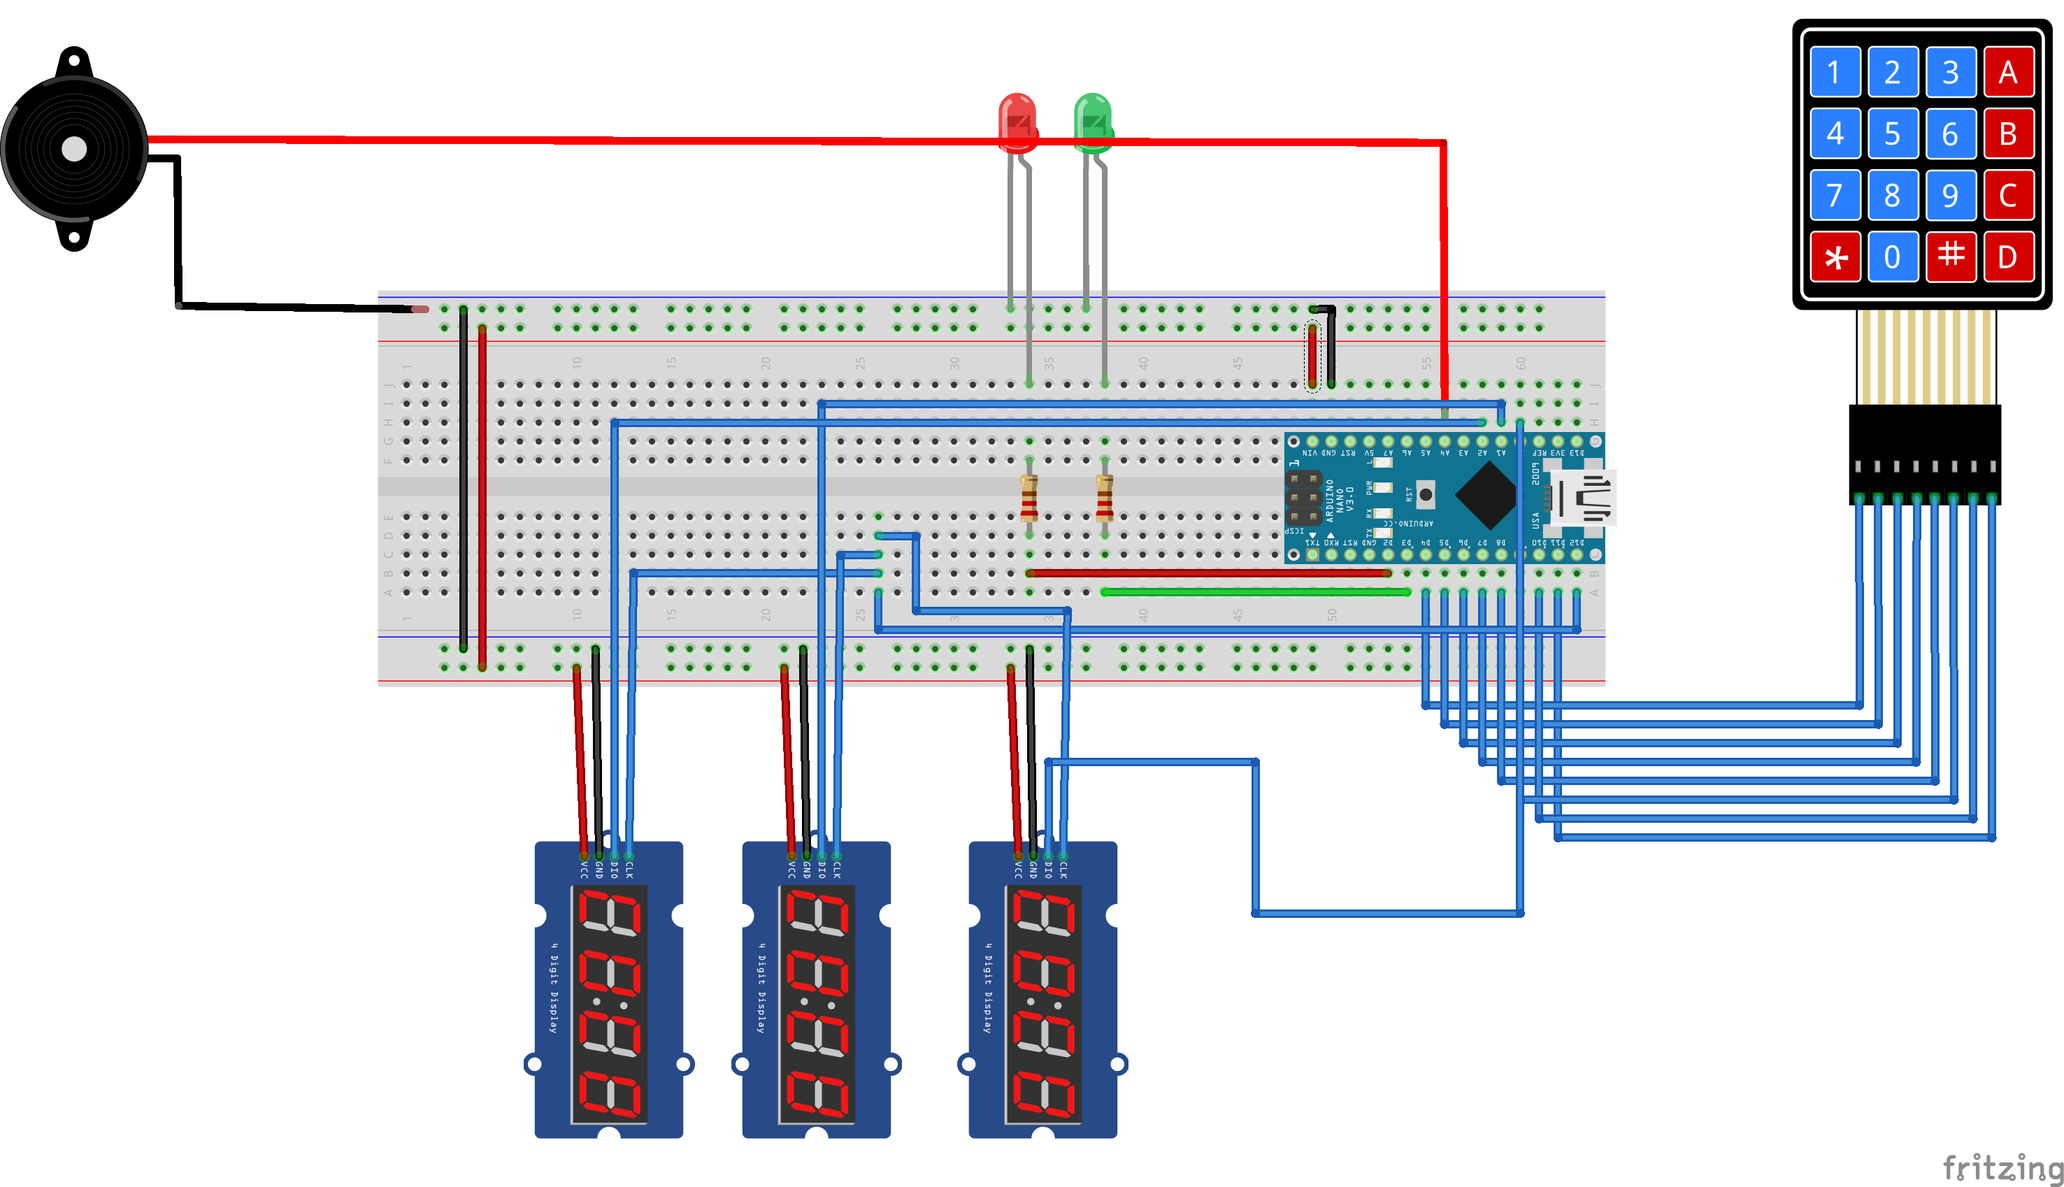
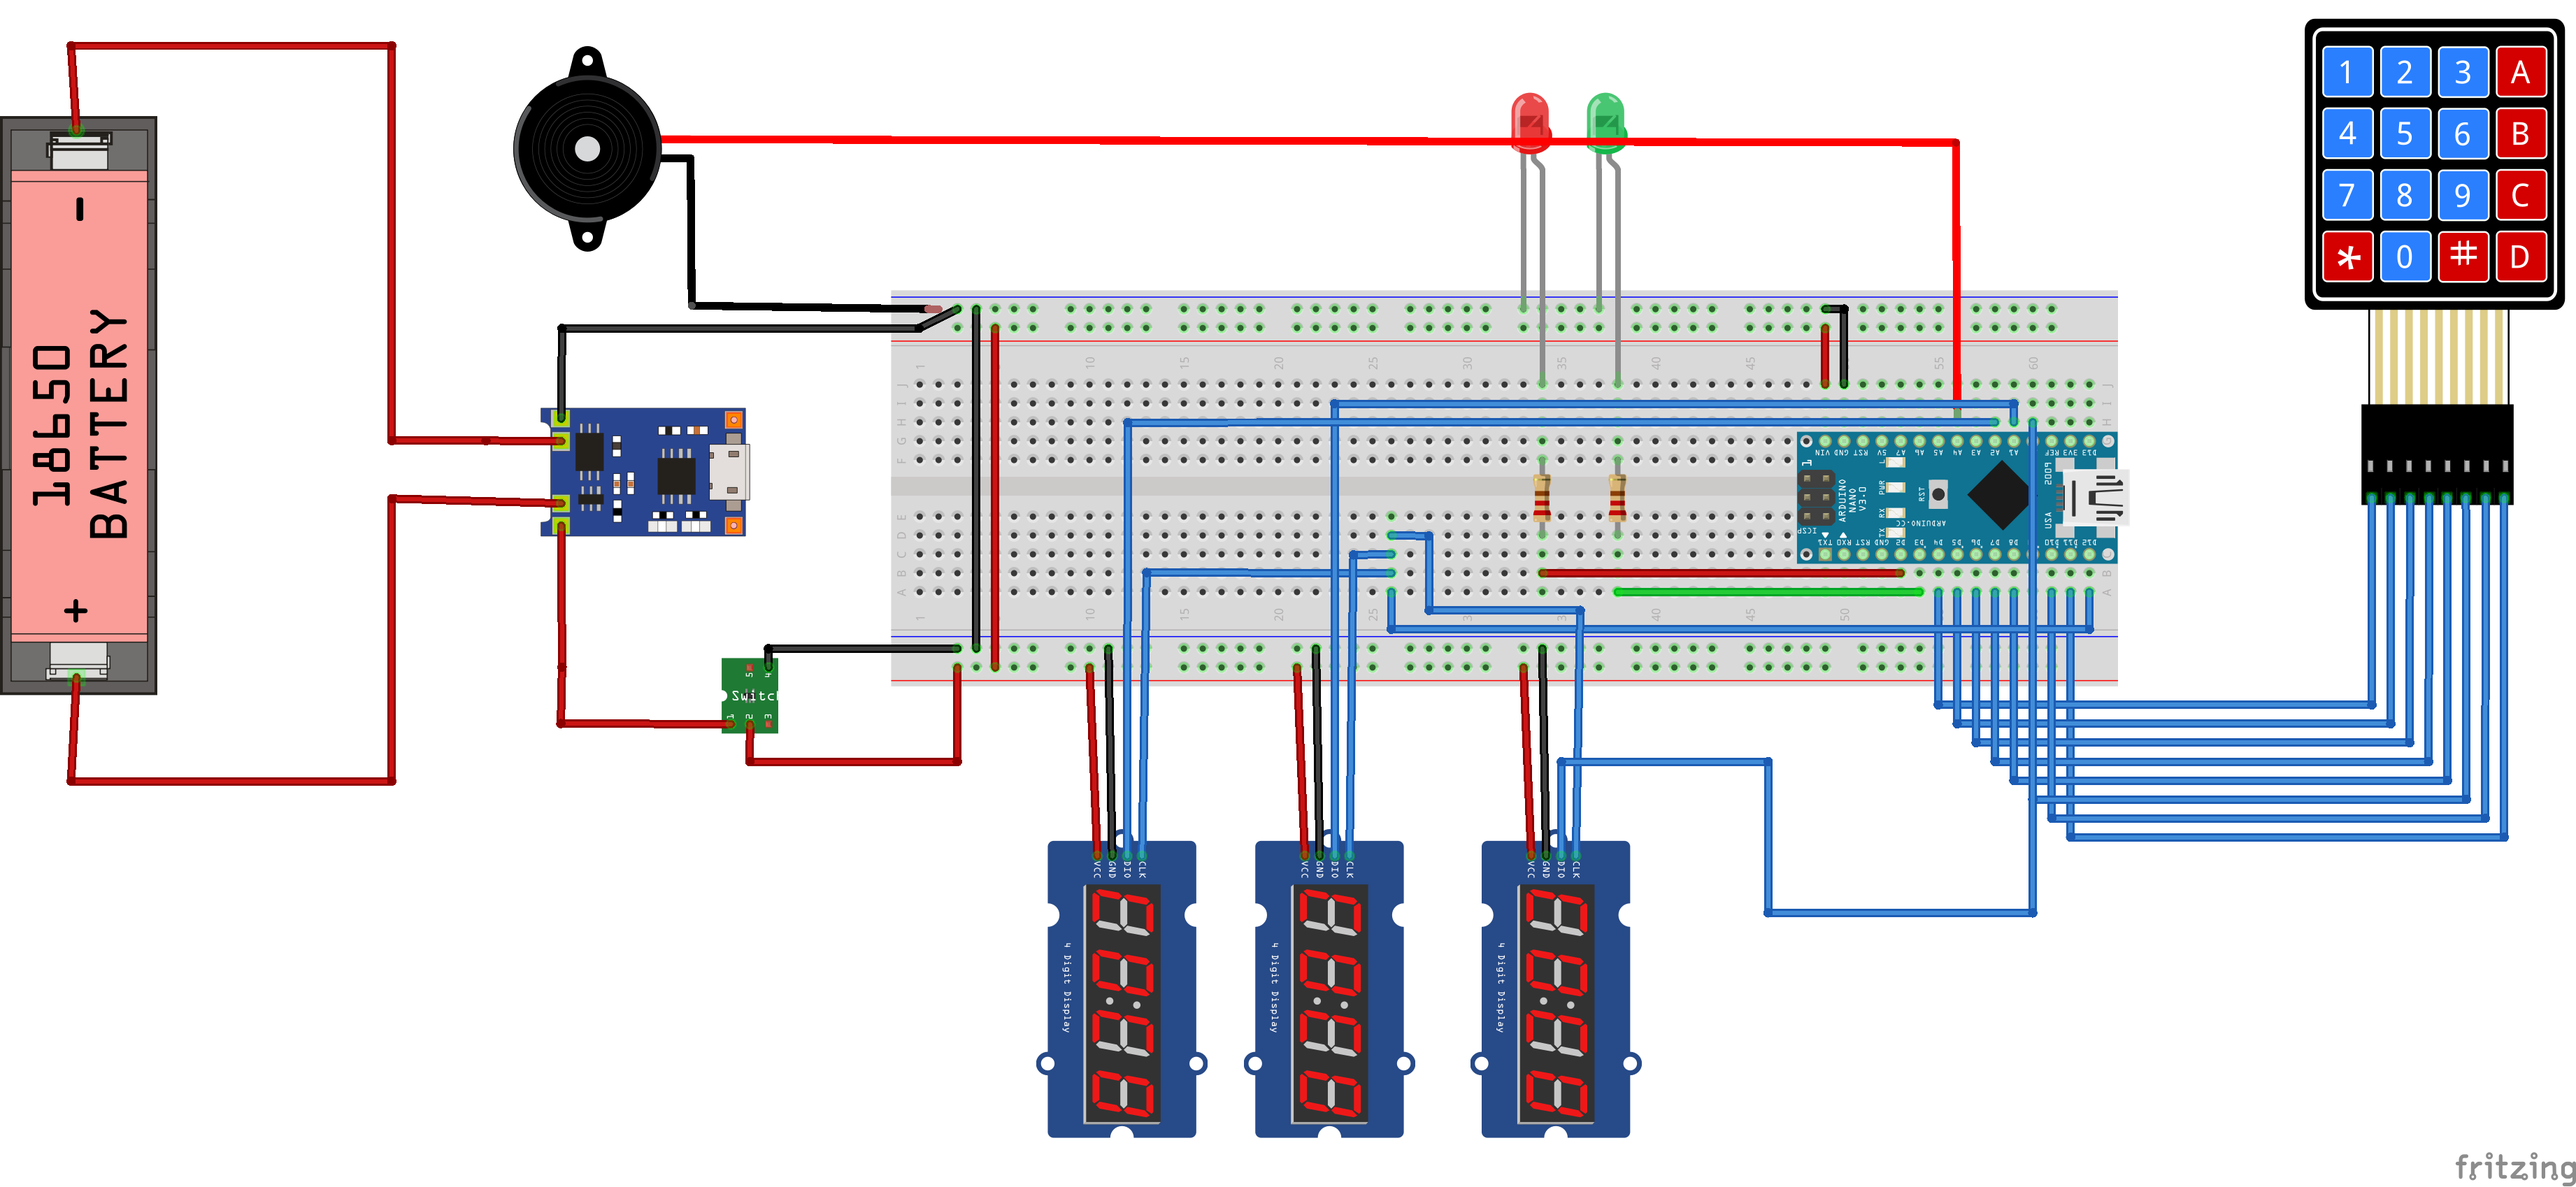
update wiring schemes & BOM with power supply modules

diff --git a/Peltzman_effect_box/README.md b/Peltzman_effect_box/README.md
@@ -28,8 +28,11 @@ https://en.wikipedia.org/wiki/Pseudocertainty_effect
 | EC11 Rotary Encoder with push button | 1 |
 | Buzzer | 1 |
 | Tactile buttons | 3 |
-| 20kΩ 1/4W resistor | 1 |
+| 20kΩ 1/4W resistor | 4 |
 | 330Ω 1/4W resistor | 1 |
+| TP4056 charger module | 1 |
+| 18650 battery module | 1 |
+| DC-DC step-up 5V boost converter module | 1 |
 
 ## Wiring scheme
 

diff --git a/Wason_2-4-6_box/README.md b/Wason_2-4-6_box/README.md
@@ -24,7 +24,10 @@ experiment is a fun way to demonstrate the concept!
 | LED (red) | 1 |
 | Buzzer | 1 |
 | 220Ω 1/4W resistor | 2 |
+| TP 4056 charger module | 1 |
+| 18650 battery module | 1 |
+| DC-DC step-up 5V boost converter module | 1 |
 
 ## Wiring scheme
 
-![Wiring scheme](./docs/Wason_sketch_bb.png)
+![Wiring scheme](./docs/Wason_box_bb.png)

diff --git a/Salience_bias_box/README.md b/Salience_bias_box/README.md
@@ -27,6 +27,9 @@ For more information see https://en.wikipedia.org/wiki/Salience_(neuroscience)
 | Buzzer | 1 |
 | 220Ω 1/4W resistor | 3 |
 | 20kΩ 1/4W resistor | 4 |
+| TP 4056 charger module | 1 |
+| 18650 battery module | 1 |
+| DC-DC step-up 5V boost converter module | 1 |
 
 ## Wiring diagram
 ![Wiring diagram](./docs/Salience_box_bb.png)
